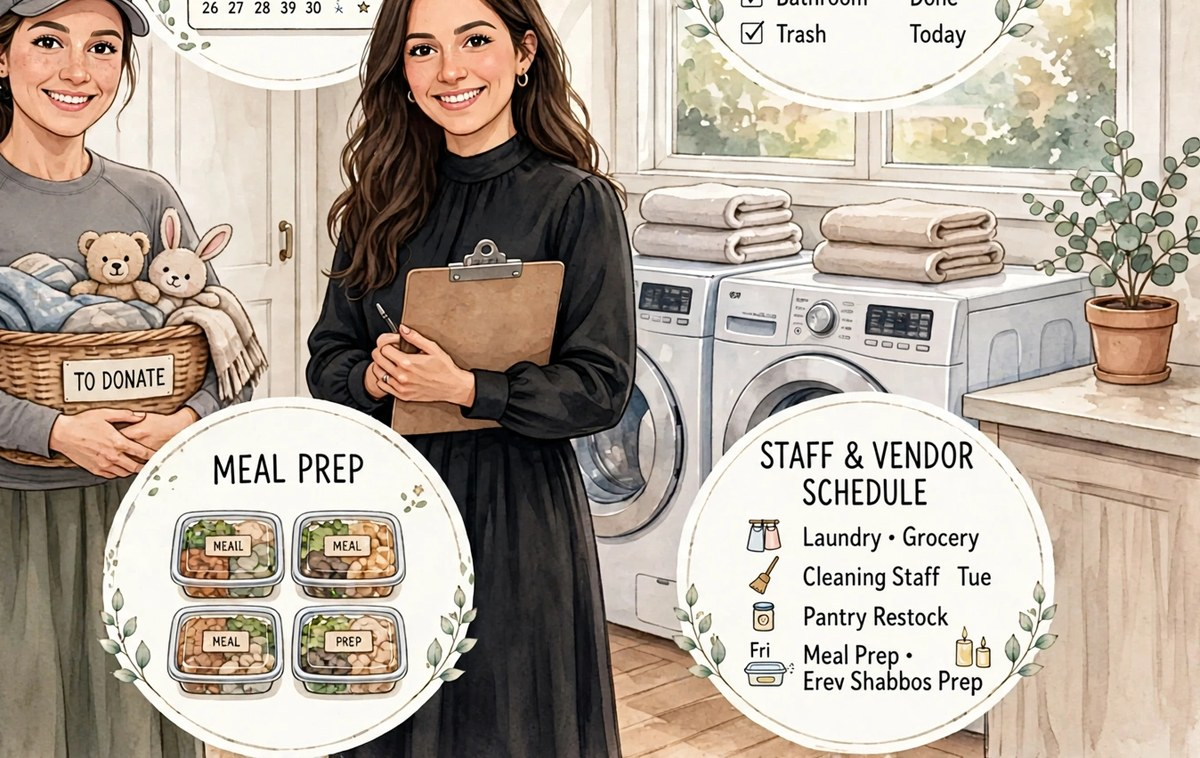
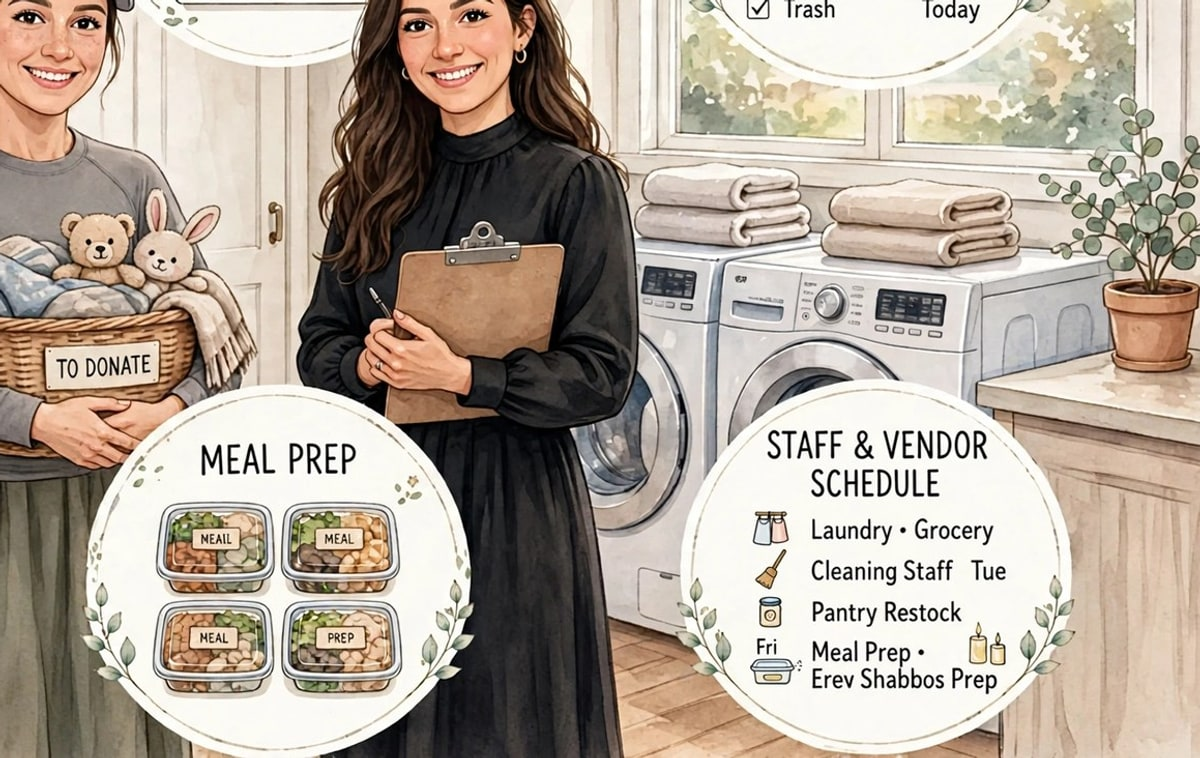
SS-535/SS-557: place About image 2, fix image 1 crop, add blog preflight
SS-557 preflight-blog.py: merges the two independently written validators
into one. Checks the five staging traps (filename-is-slug, blog- prefixed
strays, NOTES before the meta line, schema as a sidecar, FAQ drift) plus
the standing content rules. Errors block; em dashes warn only, pending a
ruling on whether SS-491 covers the blog.

Two gaps found by self-testing the checks against deliberately broken
fixtures rather than assuming they fire:
  - the inline-image rule was anchored to line start, so an image dropped
    mid-paragraph passed. Now unanchored.
  - trap 2 can only be caught by globbing for the files the staging glob
    does NOT see; a per-file rule on an already-globbed name can never
    fire on a blog- prefixed file.
Runs clean on all 32 staged rewrites: 0 blocking errors.

SS-535 image 2: about-image-2.jpg placed after the closing line per the
ruling, with the specified alt.

SS-535 image 1: the crop did not do what its own note said it did. The top
26px still carried the date strip "26 27 28 39 30", so the invalid 39 the
crop was supposed to exclude was live on the page. Re-cropped tighter and
re-squared to the 1200x758 the pair shares. Tighter, never wider.

Left in and recorded rather than silently shipped (SS-540): image 2 reads
"Order Pet Foed Delivery" and its calendar row runs 25, 27, 29. SS-535
describes that line as correctly spelled and the broken sequence as
outside the crop. Both claims are wrong against the delivered file, and
[…]

diff --git a/app/about/page.tsx b/app/about/page.tsx
@@ -56,28 +56,52 @@ export default function AboutPage() {
             procedures, and accountability tools, designed for homes where the same standard has to hold whether or
             not anyone is watching.
           </p>
-          {/* SS-535. CROP IS DELIBERATE AND MUST NOT BE WIDENED. This file is
-              cropped from a larger illustration specifically to exclude text
-              carrying generation errors: a misspelled pantry shelf label
-              ("SWOAR"), duplicated closet bin labels (SHIRTS twice,
-              ACCESSORIES twice), and an invalid calendar date (a "39" in a
-              November grid). ANY wider framing reintroduces all three. Do not
-              source, request or substitute a wider crop -- place as supplied.
-              Decorative, so alt is empty: the paragraphs either side already
-              carry the meaning, and describing the illustration would make a
-              screen reader announce the very labels the crop removes. */}
+          {/* SS-535 image 1 of 2. CROP IS DELIBERATE AND MUST NOT BE WIDENED.
+              Cropped from a larger illustration to exclude text carrying
+              generation errors: a misspelled pantry shelf label ("SWOAR"),
+              duplicated closet bin labels (SHIRTS twice, ACCESSORIES twice),
+              and an invalid calendar date (a "39" in a November grid). Any
+              wider framing reintroduces all three.
+
+              3 Aug: THE CROP AS SUPPLIED DID NOT ACTUALLY EXCLUDE THE THIRD
+              ONE. The top 26px still carried the date strip "26 27 28 39 30",
+              so the invalid 39 was live on this page. Re-cropped tighter (top
+              26px dropped, sides trimmed to hold the 1200x758 the pair shares)
+              and the strip is gone. Recorded on SS-535 -- the point is that a
+              crop is only as good as someone checking it, and the note saying
+              the errors were excluded had been trusted rather than verified. */}
           <Image
             src="/about-header.jpg"
-            alt=""
+            alt="Two professional organizers in a home laundry and pantry, with household systems shown around them."
             width={1200}
             height={758}
-            className="w-full h-auto rounded-xl2 border border-cardBorder shadow-card my-2"
+            className="w-full h-auto rounded-xl3 border border-cardBorder shadow-card my-2"
           />
           <p>
             Our approach is different because we stay. We don’t organize your pantry and leave. We set up the
             reorder system, we run it, we watch it, and we fix it when something stops working. The goal isn’t a
             beautiful before-and-after. It’s a house that works on Tuesday at 4pm when nobody’s watching.
           </p>
+          {/* SS-535 image 2 of 2, placed after the closing line per the
+              ruling. SAME RULE: never re-source wider. The full generation
+              carries the retired "SORT & PLACE" ampersand wordmark twice, and
+              a calendar whose weekday headers are generated gibberish; this
+              crop excludes both.
+
+              KNOWN AND LEFT IN, recorded rather than silently shipped (SS-540)
+              -- the corkboard reads "Order Pet Foed Delivery", and the visible
+              calendar row runs 25, 27, 29. SS-535 describes that line as
+              correctly spelled and the broken date sequence as outside the
+              crop; both claims are wrong against the delivered file. Neither
+              is croppable without destroying the composition, so this needs a
+              regenerated asset, not a reframe. */}
+          <Image
+            src="/about-image-2.jpg"
+            alt="A household manager at a desk with a weekly staff and vendor schedule, a family calendar, and a daily errands list."
+            width={1200}
+            height={758}
+            className="w-full h-auto rounded-xl3 border border-cardBorder shadow-card mt-2"
+          />
         </div>
 
         <div className="mt-12 pt-8 border-t border-cardBorder text-center">

diff --git a/scripts/preflight-blog.py b/scripts/preflight-blog.py
@@ -1,0 +1,203 @@
+#!/usr/bin/env python3
+"""
+preflight-blog.py -- validate article .md files BEFORE stage-blog-drop.py runs.
+
+WHY THIS EXISTS (SS-557). Five packaging traps have hit this pipeline, every
+one found by a person rather than a check, and every one silent: no build
+error, no typecheck failure, no visible symptom until a wrong page was live.
+
+  1. FILENAME IS THE SLUG   article-NN-VOICE-FIXED.md -> public slug
+                            blog-NN-VOICE-FIXED, INSERTED as a new row rather
+                            than updating the real article
+  2. blog- PREFIXED FILE    the staging glob only matches article-*.md, so a
+                            blog- prefixed file is skipped in silence
+  3. NOTES BEFORE META      stage-blog-drop.py cuts the body at
+                            "**Meta Description:**", so notes placed above it
+                            ship as published copy
+  4. SCHEMA AS A SIDECAR    FAQ JSON-LD as a separate .json file; the script
+                            exits, and the temptation is a hand-written
+                            UPDATE, which is how every one of these started
+  5. FAQ DRIFT              rendered ### questions disagreeing with JSON-LD
+                            mainEntity, which Google treats as a
+                            structured-data violation: worse than no schema
+
+Plus the standing content rules: no outbound links (SS-506), no inline images
+(the renderer has no image support and emits alt text as literal body copy),
+no personal byline, and no retired ampersand wordmark in any form -- literal,
+URL-encoded or HTML-entity (SS-556, where %26 survived three sweeps).
+
+ERRORS block (exit 1). WARNINGS are informational and do not block: the em
+dash count is a warning until Racquel rules on whether SS-491 covers the blog,
+and it fires on all 31 files until then.
+
+    python3 scripts/preflight-blog.py content/articles/rewrites
+    python3 scripts/preflight-blog.py content/articles/rewrites/article-01-foo.md
+"""
+
+import json
+import pathlib
+import re
+import sys
+
+META = '**Meta Description:**'
+# article-[NN-]lowercase-slug.md. NN is optional: four of the 31 carry no
+# number and all four staged correctly, so a missing number is a consistency
+# note, not a failure (SS-557, and SS-553 -- the rule was too strict, not the
+# files wrong).
+SLUG_RE = re.compile(r'^article-(?:(\d{2})-)?([a-z0-9-]+)\.md$')
+FENCE_RE = re.compile(r'```json\s*(\{.*?\})\s*```', re.S)
+H3_RE = re.compile(r'^### (.+?)\s*$', re.M)
+LINK_RE = re.compile(r'\[([^\]]+)\]\(([^)]+)\)')
+# Deliberately NOT anchored to line start: an image dropped mid-paragraph
+# renders exactly as badly as one on its own line, and anchoring missed it.
+IMG_RE = re.compile(r'!\[')
+NAME_RE = re.compile(r'racquel|about the author', re.I)
+WORKING_TITLE_RE = re.compile(r'voice|fixed|template|rewrite|final|copy|-v\d+', re.I)
+# SS-556: an audit for a literal must also search its encoded forms.
+AMPERSAND_FORMS = ['&', '%26', '&amp;', r'&', '&']
+RETIRED_MARKS = ['Sort {} Place', 'Sorted {} Stocked']
+ALLOWED_INTERNAL = {'/welcome', '/contact'}
+
+
+def check(path: pathlib.Path) -> tuple[list[str], list[str]]:
+    """Return (errors, warnings) for one article file."""
+    errors: list[str] = []
+    warnings: list[str] = []
+    name = path.name
+    text = path.read_text(encoding='utf-8')
+
+    # --- Trap 1: the filename becomes the public slug, verbatim -------------
+    m = SLUG_RE.match(name)
+    if not m:
+        errors.append(
+            f"filename '{name}' does not match article-[NN-]lowercase-slug.md; "
+            'the staging script derives the slug from it, so this ships a junk URL'
+        )
+    else:
+        if m.group(1) is None:
+            warnings.append(
+                'filename carries no NN number, so the slug has no sequence '
+                'position (4 of the 31 are like this and staged fine)'
+            )
+        slug = m.group(2)
+        if WORKING_TITLE_RE.search(slug):
+            errors.append(
+                f"slug '{slug}' contains a working-title marker, and it ships as the public URL"
+            )
+
+    if not text.startswith('# '):
+        errors.append('no H1 on the first line, so the post has no title to stage')
+
+    # --- Trap 3: NOTES must sit AFTER the meta line, or they publish --------
+    meta_at = text.find(META)
+    if meta_at == -1:
+        errors.append(f'no "{META}" line; the staging script exits and the body is never cut')
+    notes_at = text.find('**NOTES')
+    if notes_at != -1 and meta_at != -1 and notes_at < meta_at:
+        errors.append('NOTES block sits BEFORE the meta line, so it lands in the published body')
+
+    # --- Trap 4: schema must be fenced in this file, not a sidecar ----------
+    fences = FENCE_RE.findall(text)
+    faq_json = None
+    if not fences:
+        sidecar = list(path.parent.glob(f'{path.stem}*.json')) or list(path.parent.glob('*faq*.json'))
+        hint = f' (sidecar found: {sidecar[0].name}; inline it)' if sidecar else ''
+        errors.append(f'no fenced ```json FAQPage block{hint}')
+    else:
+        try:
+            faq_json = json.loads(fences[0])
+        except json.JSONDecodeError as e:
+            errors.append(f'fenced JSON does not parse: {e}')
+        else:
+            if faq_json.get('@type') != 'FAQPage':
+                errors.append(f"fenced JSON @type is {faq_json.get('@type')!r}, expected FAQPage")
+                faq_json = None
+
+    # Everything below judges the PUBLISHED body only, the part before the
+    # meta line. Grepping the whole file produces false positives on the NOTES
+    # section, and chasing those is itself one of the documented traps: people
+    # "fix" copy that was never going to ship.
+    body = text[:meta_at] if meta_at != -1 else text
+
+    # --- Trap 5: rendered questions vs schema questions --------------------
+    faq_block = re.search(r'^## Frequently Asked Questions\n(.*?)(?=^```json|\Z)', body, re.S | re.M)
+    rendered = [h.strip() for h in H3_RE.findall(faq_block.group(1))] if faq_block else []
+    if faq_json is not None:
+        schema_qs = [q.get('name', '').strip() for q in faq_json.get('mainEntity', [])]
+        if not rendered:
+            errors.append('no "## Frequently Asked Questions" section with ### questions in the body')
+        elif schema_qs != rendered:
+            errors.append(f'FAQ drift: {len(rendered)} rendered vs {len(schema_qs)} in JSON-LD')
+            for q in schema_qs:
+                if q not in rendered:
+                    errors.append(f'    in schema, not on page: {q}')
+            for q in rendered:
+                if q not in schema_qs:
+                    errors.append(f'    on page, not in schema: {q}')
+
+    # --- Standing content rules --------------------------------------------
+    if IMG_RE.search(body):
+        errors.append('inline image syntax in body; the renderer emits the alt text as literal copy')
+
+    for label, target in LINK_RE.findall(body):
+        if target.startswith('http'):
+            errors.append(f'outbound link (SS-506, none allowed): [{label[:30]}]({target[:48]})')
+        elif target.startswith('/') and target not in ALLOWED_INTERNAL:
+            errors.append(f'internal link outside /welcome and /contact: {target}')
+
+    if NAME_RE.search(body):
+        errors.append('personal name or byline in the published body; the byline is "Sort + Place"')
+
+    for mark in RETIRED_MARKS:
+        for amp in AMPERSAND_FORMS:
+            if mark.format(amp) in text:
+                errors.append(f'retired ampersand wordmark present: {mark.format(amp)!r}')
+
+    dashes = body.count('—')
+    if dashes:
+        warnings.append(f'{dashes} em dash(es) in body; SS-491 covers marketing copy, blog unruled')
+
+    return errors, warnings
+
+
+def main() -> int:
+    if len(sys.argv) != 2:
+        print(__doc__)
+        return 1
+
+    target = pathlib.Path(sys.argv[1])
+    if target.is_dir():
+        files = sorted(target.glob('article-*.md'))
+        # Trap 2 can only be caught HERE. A file named blog-NN-slug.md is
+        # never matched by the article-*.md glob, so a per-file rule that
+        # inspects an already-globbed name can never fire on it -- the check
+        # has to look for the files the glob does not see.
+        strays = sorted(target.glob('blog-*.md'))
+    else:
+        files, strays = [target], []
+
+    if not files and not strays:
+        print(f'no article-*.md files found in {target}')
+        return 1
+
+    total_err = 0
+    for s in strays:
+        print(f'\n{s.name}\n  FAIL  blog- prefixed: the staging glob never sees this file at all')
+        total_err += 1
+
+    for f in files:
+        errors, warnings = check(f)
+        if errors or warnings:
+            print(f'\n{f.name}')
+            for e in errors:
+                print(f'  FAIL  {e}')
+            for w in warnings:
+                print(f'  warn  {w}')
+        total_err += len(errors)
+
+    print(f'\n{len(files) + len(strays)} file(s) checked, {total_err} blocking error(s)')
+    return 1 if total_err else 0
+
+
+if __name__ == '__main__':
+    sys.exit(main())
